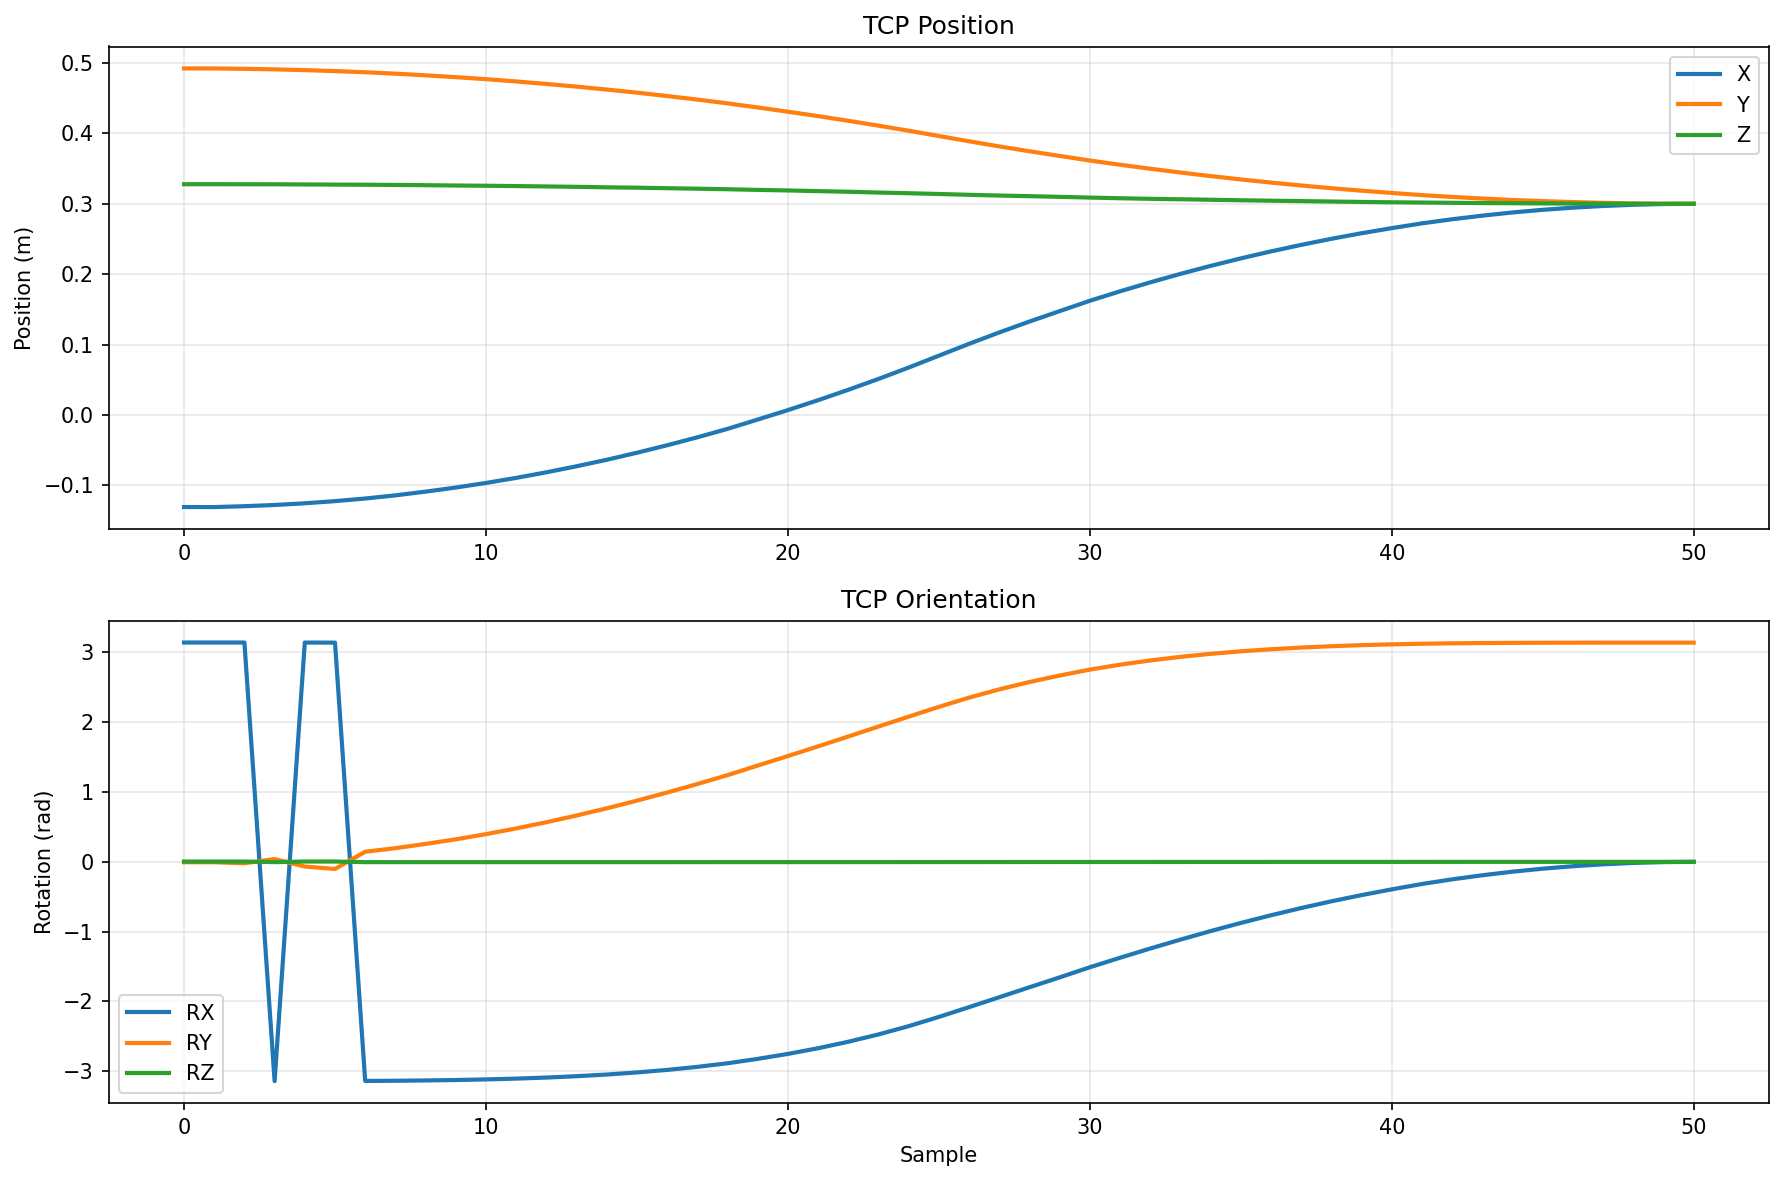
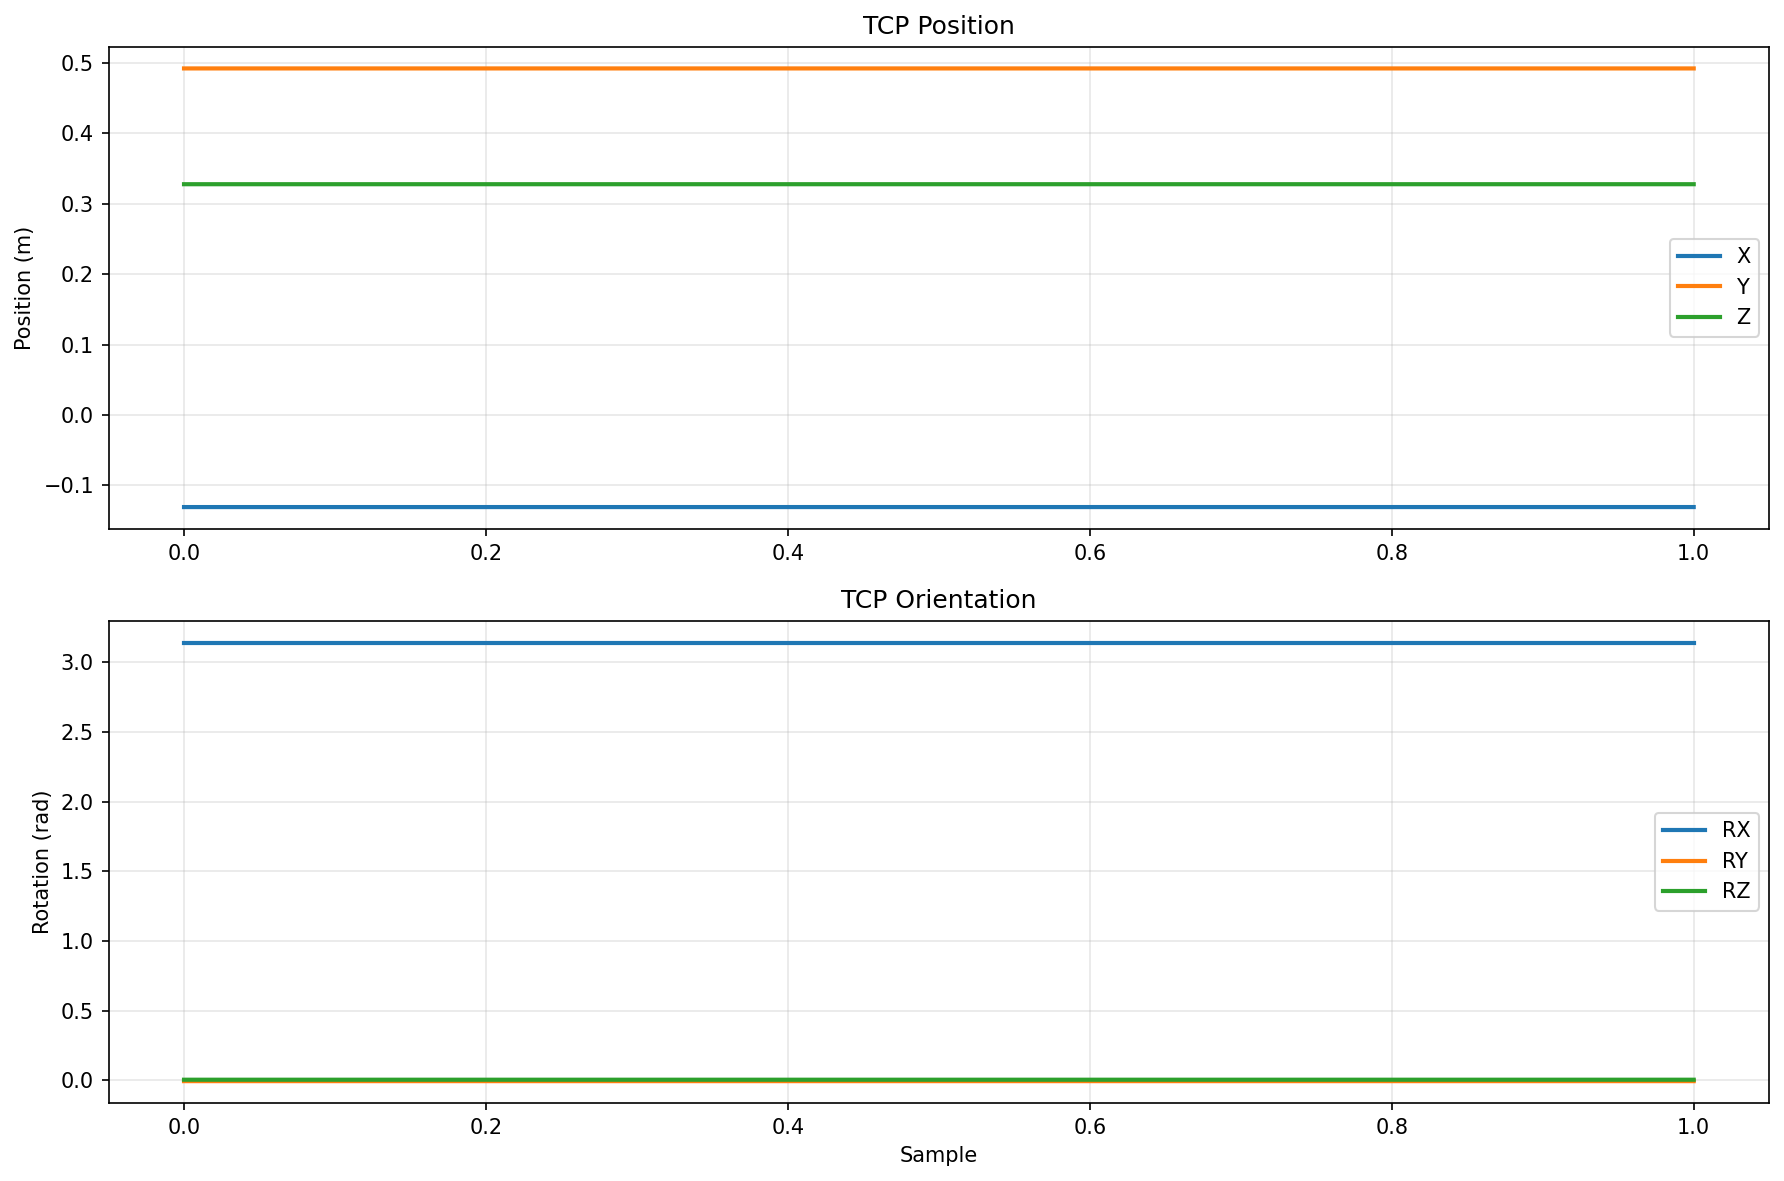
Visualizer update for approach points.

diff --git a/grasping/grasping_points.py b/grasping/grasping_points.py
@@ -8,6 +8,7 @@ import sys
 from typing import Dict, List, Optional
 from dataclasses import dataclass
 from scipy.spatial.transform import Rotation as R
+from robot_ipc_control.pose_estimation.transform_utils import quat_to_rotmat
 
 from robot_ipc_control.pose_estimation.board_pose_estimator import BoardPoseEstimator
 
@@ -35,10 +36,12 @@ class FacePair:
 @dataclass
 class GraspingPair:
     box_id: str
-    point1: List[float]
-    point2: List[float]
-    normal1: List[float]
-    normal2: List[float]
+    point1: np.ndarray
+    point2: np.ndarray
+    normal1: np.ndarray
+    normal2: np.ndarray
+    approach_point1: np.ndarray
+    approach_point2: np.ndarray
     pair_type: str
     confidence: float
     total_distance: float
@@ -69,8 +72,9 @@ def get_dimensions_from_config(board_config_path: str) -> tuple:
 class GraspingPointsCalculator:
     """Calculates optimal grasping points using BoardPoseEstimator"""
 
-    def __init__(self, config_path: str):
+    def __init__(self, config_path: str, approach_offset: float = 0.15):
         self.config_path = config_path
+        self.approach_offset = approach_offset
         self.robot_poses = self._load_robot_poses()
         self.box_dimensions_aruco_axes = self._load_box_dimensions()
 
@@ -127,7 +131,7 @@ class GraspingPointsCalculator:
                 if pose is not None and is_stable:
                     estimated_position = pose[:3]
                     quaternion = pose[3:7]
-                    rotation_matrix = R.from_quat(quaternion).as_matrix()
+                    rotation_matrix = quat_to_rotmat(quaternion)
 
                     height, width, depth = self.box_dimensions_aruco_axes[board_id_int]
 
@@ -138,9 +142,9 @@ class GraspingPointsCalculator:
                         position=box_position,
                         rotation_matrix=rotation_matrix,
                         confidence=confidence,
-                        x_dim=depth,
+                        x_dim=height,
                         y_dim=width,
-                        z_dim=height,
+                        z_dim=depth,
                     )
                     boxes.append(box)
 
@@ -155,9 +159,9 @@ class GraspingPointsCalculator:
 
         half_x_dim, half_y_dim, half_z_dim = x_dim / 2, y_dim / 2, z_dim / 2
 
-        local_x_axis_world = box.rotation_matrix[0, :]
-        local_y_axis_world = box.rotation_matrix[1, :]
-        local_z_axis_world = box.rotation_matrix[2, :]
+        local_x_axis_world = box.rotation_matrix[:, 0]
+        local_y_axis_world = box.rotation_matrix[:, 1]
+        local_z_axis_world = box.rotation_matrix[:, 2]
 
         faces_world = {
             "front": box.position + local_x_axis_world * half_x_dim,  # +X face
@@ -197,9 +201,9 @@ class GraspingPointsCalculator:
         pairs = []
 
         opposing_pairs = [
-            ("front", "back", "front_back_X_axis"),  # Along ArUco X axis
-            ("left", "right", "left_right_Y_axis"),  # Along ArUco Y axis
-            ("top", "bottom", "top_bottom_Z_axis"),  # Along ArUco Z axis
+            ("front", "back", "front_back_X_axis"),
+            ("left", "right", "left_right_Y_axis"),
+            ("top", "bottom", "top_bottom_Z_axis"),
         ]
 
         for face1_name, face2_name, pair_type in opposing_pairs:
@@ -215,11 +219,30 @@ class GraspingPointsCalculator:
 
         return pairs
 
+    def get_approach_points(
+        self,
+        grasp_point1: np.ndarray,
+        grasp_point2: np.ndarray,
+        normal1: np.ndarray,
+        normal2: np.ndarray,
+        offset: float = None,
+    ) -> tuple[np.ndarray, np.ndarray]:
+        if offset is None:
+            offset = self.approach_offset
+
+        normal1_unit = normal1 / np.linalg.norm(normal1)
+        normal2_unit = normal2 / np.linalg.norm(normal2)
+
+        approach_point1 = grasp_point1 + normal1_unit * offset
+        approach_point2 = grasp_point2 + normal2_unit * offset
+
+        return approach_point1, approach_point2
+
     def calculate_face_robot_distances(self, face_center: np.ndarray) -> List[float]:
         """Calculate distances from a face center to all robot bases"""
         distances = []
         for i, robot_pose in enumerate(self.robot_poses):
-            robot_position = robot_pose[:3, 3]  # Extract translation from 4x4 matrix
+            robot_position = robot_pose[:3, 3]
             distance = np.linalg.norm(face_center - robot_position)
             distances.append(distance)
 
@@ -297,12 +320,21 @@ class GraspingPointsCalculator:
             normal1_for_visualizer = best_pair.face1_normal
             normal2_for_visualizer = best_pair.face2_normal
 
+        approach_point1, approach_point2 = self.get_approach_points(
+            point1_for_visualizer,
+            point2_for_visualizer,
+            normal1_for_visualizer,
+            normal2_for_visualizer,
+        )
+
         return GraspingPair(
             box_id=str(box.id),
-            point1=point1_for_visualizer.tolist(),
-            point2=point2_for_visualizer.tolist(),
-            normal1=normal1_for_visualizer.tolist(),
-            normal2=normal2_for_visualizer.tolist(),
+            point1=point1_for_visualizer,
+            point2=point2_for_visualizer,
+            normal1=normal1_for_visualizer,
+            normal2=normal2_for_visualizer,
+            approach_point1=approach_point1,  # NEW
+            approach_point2=approach_point2,  # NEW
             pair_type=best_pair.pair_type,
             confidence=float(box.confidence),
             total_distance=float(best_analysis["total_distance"]),
@@ -318,25 +350,27 @@ class GraspingPointsPublisher:
     """Publishes optimal grasping points via ZMQ"""
 
     def __init__(
-        self, config_path: str, port: int = 5560, publish_rate_hz: float = 10.0
+        self,
+        config_path: str,
+        port: int = 5560,
+        publish_rate_hz: float = 10.0,
+        approach_offset: float = 0.15,
     ):
         self.config_path = config_path
         self.port = port
         self.publish_rate_hz = publish_rate_hz
 
-        # Initialize calculator
-        self.calculator = GraspingPointsCalculator(config_path)
+        self.calculator = GraspingPointsCalculator(config_path, approach_offset)
 
-        # ZMQ setup
         self.context = zmq.Context()
         self.publisher = self.context.socket(zmq.PUB)
         self.publisher.bind(f"tcp://*:{port}")
 
-        # Publishing control
         self.publishing = False
         self.publisher_thread = None
 
         print(f"Grasping points publisher ready on port {port}")
+        print(f"Approach offset: {approach_offset}m")
 
     def start_publishing(self):
         """Start the publishing thread"""
@@ -369,23 +403,25 @@ class GraspingPointsPublisher:
                 if boxes:
                     grasping_data = {}
 
-                    # Calculate grasping points for each box
                     for box in boxes:
                         grasping_pair = self.calculator.find_best_grasping_pair(box)
 
-                        grasping_data[grasping_pair.box_id] = {
-                            "point1": grasping_pair.point1,
-                            "point2": grasping_pair.point2,
-                            "normal1": grasping_pair.normal1,
-                            "normal2": grasping_pair.normal2,
-                            "pair_type": grasping_pair.pair_type,
-                            "confidence": grasping_pair.confidence,
-                            "total_distance": grasping_pair.total_distance,
-                            "robot_assignment": grasping_pair.robot_assignment,
-                            "timestamp": float(time.time()),
-                        }
+                        if grasping_pair:
+                            grasping_data[grasping_pair.box_id] = {
+                                "point1": grasping_pair.point1.tolist(),
+                                "point2": grasping_pair.point2.tolist(),
+                                "normal1": grasping_pair.normal1.tolist(),
+                                "normal2": grasping_pair.normal2.tolist(),
+                                "approach_point1": grasping_pair.approach_point1.tolist(),
+                                "approach_point2": grasping_pair.approach_point2.tolist(),
+                                "approach_offset": self.calculator.approach_offset,
+                                "pair_type": grasping_pair.pair_type,
+                                "confidence": grasping_pair.confidence,
+                                "total_distance": grasping_pair.total_distance,
+                                "robot_assignment": grasping_pair.robot_assignment,
+                                "timestamp": float(time.time()),
+                            }
 
-                    # Publish the data
                     if grasping_data:
                         message = {
                             "timestamp": float(time.time()),
@@ -417,7 +453,7 @@ if __name__ == "__main__":
         "robot_ipc_control/configs/pose_estimation_config_single_camera_dual_arm.json"
     )
 
-    publisher = GraspingPointsPublisher(config_path)
+    publisher = GraspingPointsPublisher(config_path, approach_offset=0.15)
 
     try:
         publisher.start_publishing()

diff --git a/visualizer/visualizer.py b/visualizer/visualizer.py
@@ -127,7 +127,6 @@ class Visualizer:
 
             if "grasping_points" in message:
                 self.current_grasping_data = message["grasping_points"]
-                # print(f"Received grasping data for {len(self.current_grasping_data)} boxes")
 
                 for box_id, grasp_data in self.current_grasping_data.items():
                     self._update_grasping_markers(box_id, grasp_data)
@@ -139,42 +138,56 @@ class Visualizer:
 
     def _update_grasping_markers(self, box_id: str, grasp_data: dict):
         try:
-            marker1_name = f"grasp_point1_box_{box_id}"
-            marker2_name = f"grasp_point2_box_{box_id}"
+            grasp1_name = f"grasp_point1_box_{box_id}"
+            grasp2_name = f"grasp_point2_box_{box_id}"
 
-            point1 = np.array(grasp_data["point1"])
-            point2 = np.array(grasp_data["point2"])
+            approach1_name = f"approach_point1_box_{box_id}"
+            approach2_name = f"approach_point2_box_{box_id}"
 
-            # print(f"Creating markers at: {point1} and {point2}")
+            grasp_point1 = np.array(grasp_data["point1"])
+            grasp_point2 = np.array(grasp_data["point2"])
+            approach_point1 = np.array(grasp_data["approach_point1"])
+            approach_point2 = np.array(grasp_data["approach_point2"])
 
-            if marker1_name not in self.marker_frames:
-                print(f"Creating new marker: {marker1_name}")
-                marker1 = self.C.addFrame(marker1_name)
-                marker1.setShape(ry.ST.sphere, [0.02])
-                marker1.setColor([1.0, 0.0, 0.0, 0.9])
-                self.marker_frames[marker1_name] = marker1
+            if grasp1_name not in self.marker_frames:
+                grasp1 = self.C.addFrame(grasp1_name)
+                grasp1.setShape(ry.ST.sphere, [0.02])
+                grasp1.setColor([1.0, 0.0, 0.0, 0.9])
+                self.marker_frames[grasp1_name] = grasp1
             else:
-                marker1 = self.marker_frames[marker1_name]
-                # print(f"Updating existing marker: {marker1_name}")
+                grasp1 = self.marker_frames[grasp1_name]
 
-            print("Point1")
-            print(point1)
+            grasp1.setPosition(grasp_point1)
 
-            marker1.setPosition(point1)
-
-            if marker2_name not in self.marker_frames:
-                # print(f"Creating new marker: {marker2_name}")
-                marker2 = self.C.addFrame(marker2_name)
-                marker2.setShape(ry.ST.sphere, [0.02])
-                marker2.setColor([1.0, 0.0, 0.0, 0.9])
-                self.marker_frames[marker2_name] = marker2
+            if grasp2_name not in self.marker_frames:
+                grasp2 = self.C.addFrame(grasp2_name)
+                grasp2.setShape(ry.ST.sphere, [0.02])
+                grasp2.setColor([1.0, 0.0, 0.0, 0.9])
+                self.marker_frames[grasp2_name] = grasp2
             else:
-                marker2 = self.marker_frames[marker2_name]
-                # print(f"Updating existing marker: {marker2_name}")
+                grasp2 = self.marker_frames[grasp2_name]
 
-            print("Point2")
-            print(point2)
-            marker2.setPosition(point2)
+            grasp2.setPosition(grasp_point2)
+
+            if approach1_name not in self.marker_frames:
+                approach1 = self.C.addFrame(approach1_name)
+                approach1.setShape(ry.ST.sphere, [0.02])
+                approach1.setColor([0.0, 0.0, 1.0, 0.9])
+                self.marker_frames[approach1_name] = approach1
+            else:
+                approach1 = self.marker_frames[approach1_name]
+
+            approach1.setPosition(approach_point1)
+
+            if approach2_name not in self.marker_frames:
+                approach2 = self.C.addFrame(approach2_name)
+                approach2.setShape(ry.ST.sphere, [0.02])
+                approach2.setColor([0.0, 0.0, 1.0, 0.9])
+                self.marker_frames[approach2_name] = approach2
+            else:
+                approach2 = self.marker_frames[approach2_name]
+
+            approach2.setPosition(approach_point2)
 
         except Exception as e:
             print(f"Marker update error for box {box_id}: {e}")
